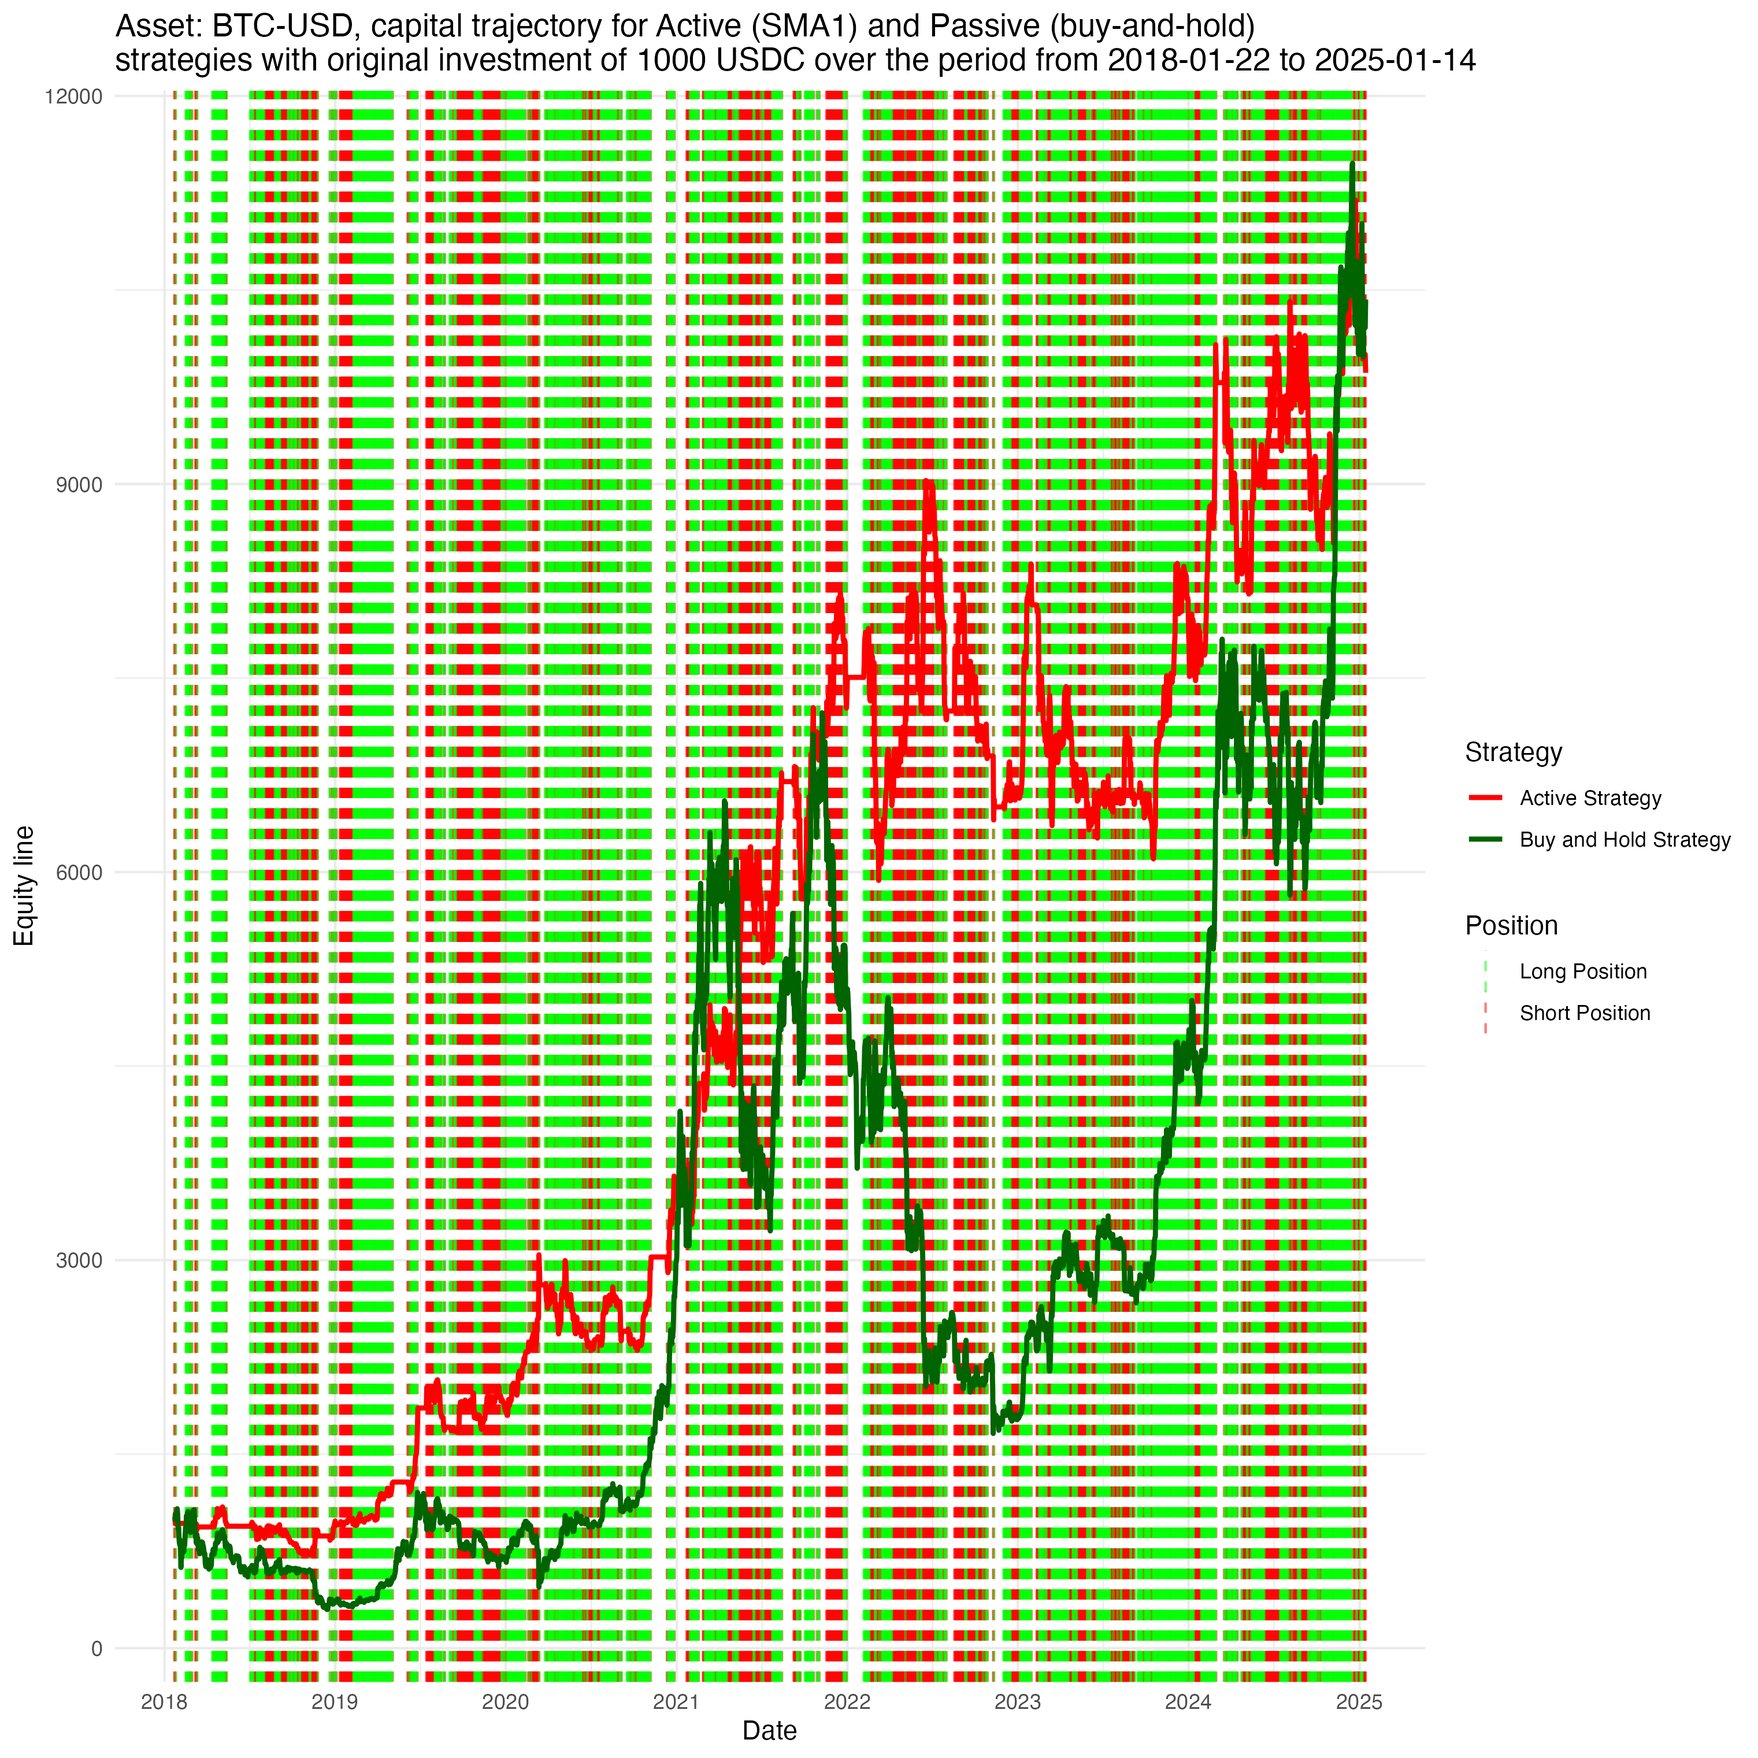
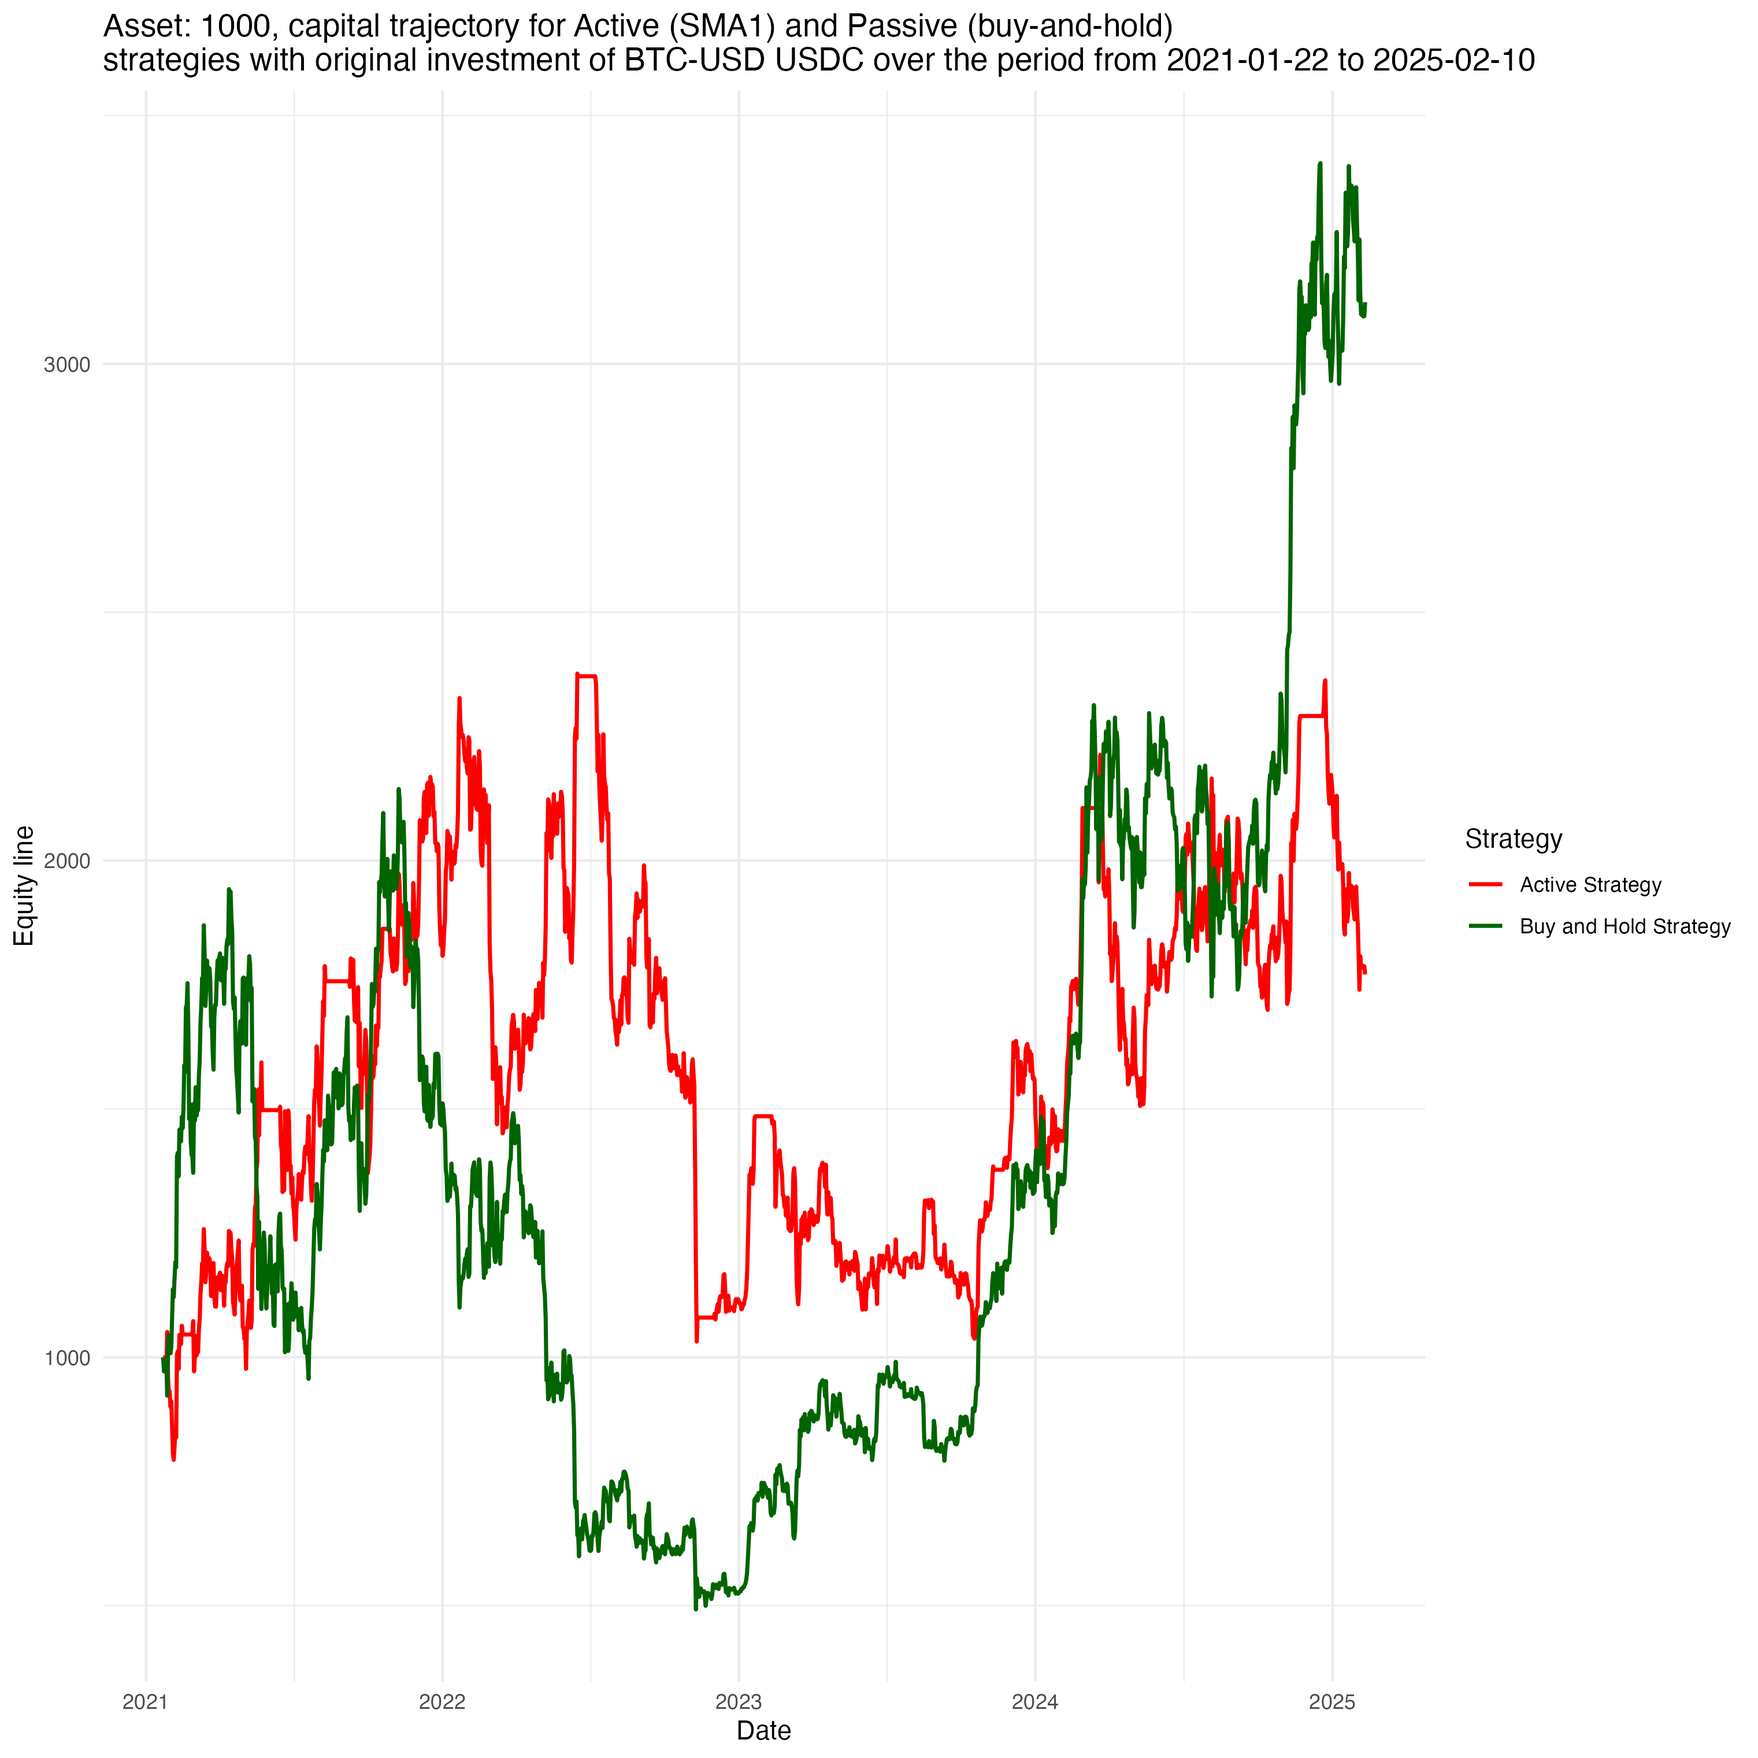
Updating the example and description

diff --git a/README.md b/README.md
@@ -8,7 +8,7 @@ All strategies are built using the R6 class system, which provides a modular and
 
 Choose an instrument, a strategy, and a trading horizon, and see how the strategy's trading profile, portfolio equity curves, and the list of all trades would look if you had consistently and strictly invested using that strategy signals with no emotions involved. 
 
-There is no magical strategy combination that always guarantees highly superior returns under all market conditions, therefore, the robustness conclusion should be based on how a strategy's trading profile looks on average given a different set of strategy combinations.
+There is no such strategy combination that always guarantees highly superior returns under all market conditions, therefore, for a particular strategy the robustness conclusion could be based on how a strategy's trading profile looks on average given a different sets of strategy's combinations.
 
 ---
 
@@ -21,9 +21,9 @@ The high-level structure looks like this:
 - A parent class, **DataFetcher**, has methods to retrieve data from Yahoo (using overlapping daily data).  
 - The **TSA** class analyzes data from various perspectives to understand different characteristics.  
 - A parent class for all strategies, **Strategy**, includes a generic signal generation method (overridden by specific strategies) and estimates the trading profile for both in-sample and out-of-sample data. It can also split in-sample data further to evaluate the performance under different market regimes. 
-- Child classes of the **Strategy** class represent specific trading strategies, such as:  
-  - Technical Indicators (moving averages, breakouts, etc.) 
-  - Statistical models (GARCH, ARIMA)  
+- Child classes of the **Strategy** class represent different trading strategies, based on:
+  - Technical Indicators (trend-following, mean-reverting, breakouts, etc.) 
+  - Statistical approaches (GARCH, ARIMA)  
   - Other approaches (AlphaEngine: coastline counter-trend trading)  
 
 Any market instrument can be used (via Yahoo ticker). Here, I test a few across various asset classes, including *FX*, *Equities*, *Commodities*, *Cryptocurrencies*, and *Fixed Income*. There are around ~37,000 combinations tested to identify what could be a good strategy for a particular instrument.
@@ -102,7 +102,7 @@ classDiagram
         - preprosess_data()
     }
 
-    class GARCHbasedStrategy {
+    class GARCH {
         + specification
         + n_start
         + refit_every
@@ -110,59 +110,66 @@ classDiagram
         + distribution_model
         + realized_vol
         + cluster
-        + initialize(data, specification, n_start, refit_every, refit_window, distribution_model, realized_vol, cluster) : Initializes the GARCHbasedStrategy object.
+        + initialize(data, specification, n_start, refit_every, refit_window, distribution_model, realized_vol, cluster) : Initializes the GARCH object.
         + estimate_realized_volatility(data) : Estimates realized volatility by different approaches.
         + generate_signals() : Specifies signal criteria based on GARCH model volatility forecasts.
         + run_backtest(symbols, specifications, n_starts, refits_every, refit_windows, distribution_models, realized_vols, output_df) : Runs a backtest for GARCH-based strategy.
     }
 
-    Strategy --|> GARCHbasedStrategy
+    Strategy --|> GARCH
     
 ```
 
-Below is an example of Bitcoin's trading profile based on the *SMA strategy, in particular Exponential Moving Average (EMA) 20-day window)*.
-Stop-loss and take-profit limits are set at 1.5% and 37.5% of the close price throughout the entire trading period.
+Below is an illustration of Bitcoin's trading profile based on the *SMA strategy, in particular, Exponential Moving Average (EMA) 20-day window)*. Risk management is implemented by setting a stop loss to ensure that no more than 1/10th of the invested capital is lost, with a reward-to-risk ratio of 3. No leverage is applied.
 
-**Performance visualization:**  
+**The dynamics of invested capital:**  
 
 ![BTC USD Plot](sma1_btc_usd_plot.png)
 
-**Trading Profile:**  
+The portfolio value of the active strategy surpassed that of the passive strategy at the end of 2019 and continued to outperform until 2024. However, beginning in 2024, the passive strategy has shown dominance. Notably, the active strategy has exhibited a lower maximum drawdown compared to the passive strategy.
 
-The estimated trading profile, based on an initial investment of 1000 USDC at the beginning of the period, is as follows for both the in-sample and out-of-sample periods:
+**Strategy trading profile:**  
 
-| Metric                          | V1 (in-sample) | V2 (in-sample) | V3 (in-sample) | V4 (in-sample) | V1 (out-sample) | V2 (out-sample) | Units |
-|---------------------------------|----------------|----------------|----------------|----------------|-----------------|-----------------|--------------------|
-| ticker                          | BTC-USD        | BTC-USD        | BTC-USD        | BTC-USD        | BTC-USD         | BTC-USD         |                    |
-| from                            | 2018-04-21     | 2018-04-21     | 2022-04-21     | 2022-04-21     | 2024-04-20      | 2024-04-20      |                    |
-| to                              | 2022-04-20     | 2022-04-20     | 2024-01-01     | 2024-01-01     | 2025-01-15      | 2025-01-15      |                    |
-| data_type                       | in_sample      | in_sample      | in_sample      | in_sample      | out_of_sample   | out_of_sample   |                    |
-| Strategy                        | Active         | Passive        | Active         | Passive        | Active          | Passive         |                    |
-| GrossProfit                     | 1610           | 4375           | 1030           | 490            | -104            | 531             | USD                |
-| AnnualizedProfit                | 18.00          | 33.68          | 14.87          | 2.81           | -9.75           | 48.78           | %                  |
-| NumberOfTradesPerYear           | 38             | 0              | 16             | 0              | 16              | 0               |                    |
-| PercentageOfWinningTrades      | 43.23          | NotApplicable  | 48.98          | NotApplicable  | 41.94           | NotApplicable   | %                  |
-| AverageWin                      | 588            | 559            | 543            | 501            | 1414            | 1445            | USD                |
-| LengthOfAverageWin              | 9              | 8              | 16             | 12             | 12              | 10              | days               |
-| LargestWin                      | 7554           | 7293           | 3762           | 3092           | 8227            | 8227            | USD                |
-| LengthOfLargestWin              | 13             | 1              | 40             | 57             | 34              | 34              | days               |
-| AverageLoss                     | -547           | -571           | -461           | -451           | -1376           | -1248           | USD                |
-| LengthOfAverageLoss             | 7              | 7              | 10             | 13             | 7               | 7               | days               |
-| LargestLoss                     | -5822          | -7554          | -2536          | -4275          | -6683           | -6099           | USD                |
-| LengthOfLargestLoss             | 6              | 13             | 10             | 22             | 6               | 3               | days               |
-| AverageWinningRun               | 1.85           | 1.94           | 1.86           | 1.83           | 1.91            | 2.00            | USD                |
-| LengthOfTimeInAverageWinningRun | 2              | 2              | 2              | 2              | 2               | 2               | days               |
-| LargestWinningRun               | 8              | 10             | 7              | 9              | 5               | 7               | days               |
-| LengthOfTimeInLargestWinningRun | 8              | 10             | 7              | 9              | 5               | 7               | days               |
-| AverageLosingRun                | 2              | 1              | 1              | 1              | 1               | 1               | USD                |
-| LengthOfTimeInAverageLosingRun  | 5              | 2              | 4              | 2              | 4               | 2               | days               |
-| LargestLosingRun                | 46             | 10             | 56             | 9              | 23              | 7               | days               |
-| LengthOfTimeInLargestLosingRun  | 46             | 10             | 56             | 9              | 23              | 7               | days               |
-| MaxDrawdown                     | -37.33         | -67.40         | -26.19         | -61.41         | -24.97          | -24.84          | %                  |
-| LengthOfMaxDrawdown             | 145            | 224            | 250            | 202            | 98              | 77              | days               |
-| StartDateMaxDrawdown            | 2021-10-20     | 2018-05-05     | 2022-07-08     | 2022-04-21     | 2024-07-07      | 2024-05-20      | Date               |
-| EndDateMaxDrawdown              | 2022-03-14     | 2018-12-15     | 2023-03-15     | 2022-11-09     | 2024-10-13      | 2024-08-05      | Date               |
-| MaxRunUp                        | 427.55         | 2318.52        | 73.15          | 183.23         | 24.71           | 97.20           | %                  |
-| LengthOfMaxRunUp                | 1072           | 1059           | 268            | 418            | 56              | 134             | days               |
-| StartDateMaxRunUp               | 2018-11-13     | 2018-12-15     | 2023-03-15     | 2022-11-09     | 2024-10-13      | 2024-08-05      | Date               |
-| EndDateMaxRunUp                 | 2021-10-20     | 2021-11-08     | 2023-12-08     | 2024-01-01     | 2024-12-08      | 2024-12-17      | Date               |
+| Metric                          | V1 (in-sample) | V2 (in-sample) | V1 (out-sample) | V2 (out-sample) | Units |
+|---------------------------------|----------------|----------------|-----------------|-----------------|--------------------|
+| ticker                          | BTC-USD        | BTC-USD        | BTC-USD         | BTC-USD         |                    |
+| from                            | 2021-01-22     | 2021-01-22     | 2024-01-22      | 2024-01-22      |                    |
+| to                              | 2024-01-01     | 2024-01-01     | 2025-02-10      | 2025-02-10      |                    |
+| data_type                       | in_sample      | in_sample      | out_of_sample   | out_of_sample   |                    |
+| leverage                        | 1              | 1              | 1               | 1               |                    |
+| max_risk                        | 0.1            | 0.1            | 0.1             | 0.1             |                    |
+| reward_ratio                    | 3              | 3              | 3               | 3               |                    |
+| capital                         | 1000           | 1000           | 1000            | 1000            | USD                |
+| Strategy                        | Active         | Passive        | Active          | Passive         |                    |
+| GrossProfit                     | 488            | 394            | 109             | 1498            | USD                |
+| AnnualizedProfit                | 9.78           | 8.10           | 7.04            | 82.07           | %                  |
+| NumberOfTradesPerYear           | 32             | 0              | 26              | 0               |                    |
+| PercentageOfWinningTrades       | 42.19          | NotApplicable  | 44.23           | NotApplicable   | %                  |
+| AverageWin                      | 32             | 27             | 23              | 38              | USD                |
+| LengthOfAverageWin              | 10             | 9              | 8               | 8               | days               |
+| LargestWin                      | 256            | 223            | 128             | 201             | USD                |
+| LengthOfLargestWin              | 8              | 12             | 16              | 16              | days               |
+| AverageLoss                     | -31            | -25            | -22             | -33             | USD                |
+| LengthOfAverageLoss             | 6              | 8              | 7               | 7               | days               |
+| LargestLoss                     | -277           | -229           | -136            | -156            | USD                |
+| LengthOfLargestLoss             | 11             | 1              | 6               | 27              | days               |
+| AverageWinningRun               | 1.97           | 1.84           | 1.99            | 2.04            | USD                |
+| LengthOfTimeInAverageWinningRun | 2              | 2              | 2               | 2               | days               |
+| LargestWinningRun               | 10             | 10             | 6               | 8               | days               |
+| LengthOfTimeInLargestWinningRun | 10             | 10             | 6               | 8               | days               |
+| AverageLosingRun                | 2              | 1              | 1               | 1               | USD                |
+| LengthOfTimeInAverageLosingRun  | 3              | 2              | 3               | 2               | days               |
+| LargestLosingRun                | 29             | 10             | 36              | 8               | days               |
+| LengthOfTimeInLargestLosingRun  | 29             | 10             | 36              | 8               | days               |
+| MaxDrawdown                     | -56.59         | -77.05         | -31.95          | -25.37          | %                  |
+| LengthOfMaxDrawdown             | 147            | 366            | 49              | 145             | days               |
+| StartDateMaxDrawdown            | 2022-06-16     | 2021-11-08     | 2024-03-21      | 2024-03-13      | Date               |
+| EndDateMaxDrawdown              | 2022-11-10     | 2022-11-09     | 2024-05-09      | 2024-08-05      | Date               |
+| MaxRunUp                        | 199.54         | 183.23         | 63.30           | 172.19          | %                  |
+| LengthOfMaxRunUp                | 497            | 418            | 321             | 330             | days               |
+| StartDateMaxRunUp               | 2021-02-04     | 2022-11-09     | 2024-02-06      | 2024-01-22      | Date               |
+| EndDateMaxRunUp                 | 2022-06-16     | 2024-01-01     | 2024-12-23      | 2024-12-17      | Date               |
+
+While the active strategy performs better in-sample in terms of return and risk, its performance declines in the out-of-sample period. 
+The framework allows users to select different assets, periods (including custom splits for further periods), strategies, parameters, risk management applications, and leverage, providing a comprehensive strategy profile view as if it had been consistently applied. For instance, once the strategy is deployed, you may not be aware of the current winning or losing streak, but knowing this could give you valuable insights into the strategy’s performance and overall dynamics.
+
